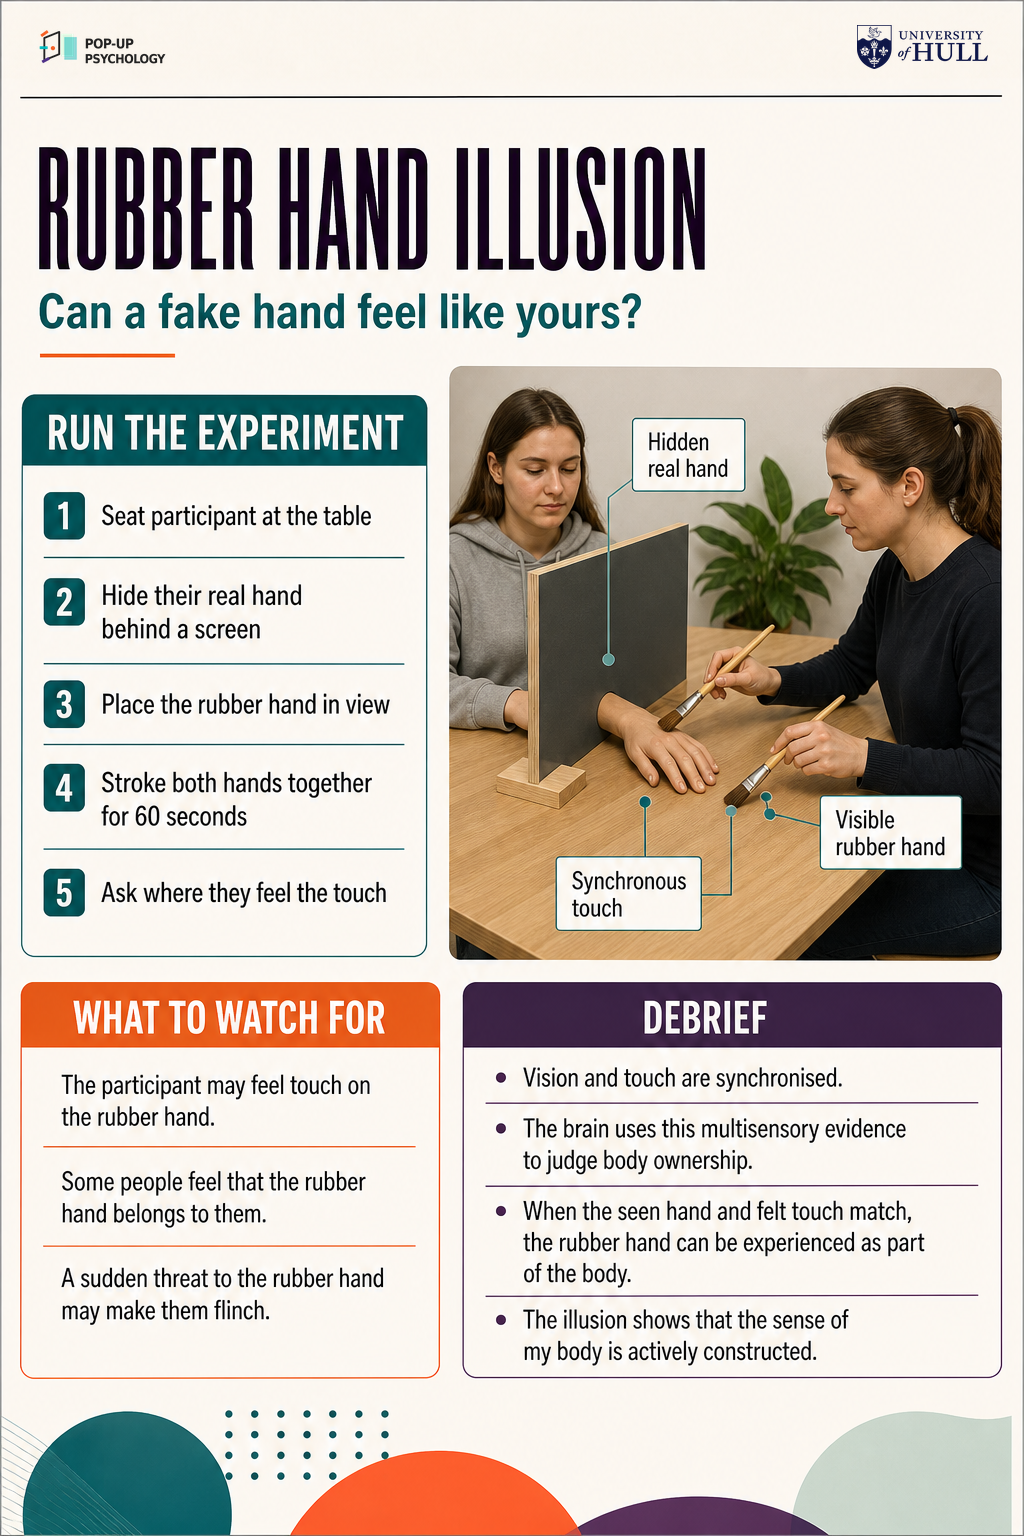
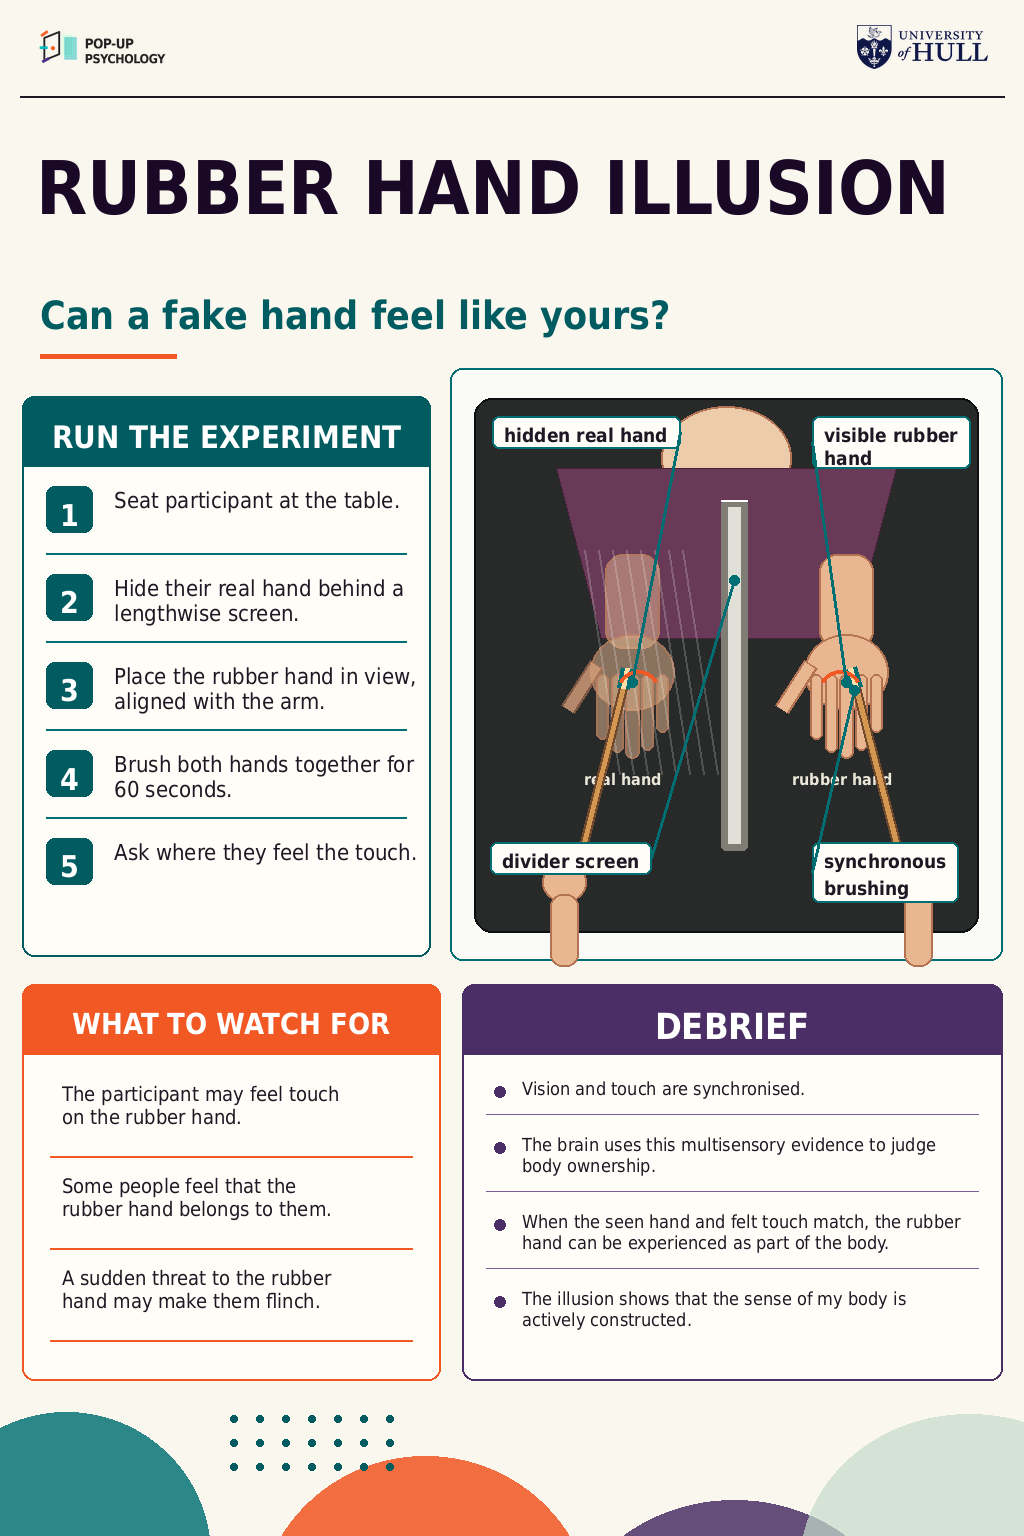
docs: fix rubber hand poster geometry

diff --git a/scripts/render_rubber_hand_poster.py b/scripts/render_rubber_hand_poster.py
@@ -1,0 +1,345 @@
+#!/usr/bin/env python3
+"""Render a deterministic Rubber Hand Illusion poster.
+
+This replaces the unstable image-generation step for the activity where the
+canonical divider geometry matters.
+"""
+
+from __future__ import annotations
+
+import math
+import argparse
+import textwrap
+from pathlib import Path
+
+from PIL import Image, ImageDraw, ImageFont
+
+
+REPO = Path(__file__).resolve().parents[1]
+DEFAULT_OUT = REPO / "images" / "rubber-hand-illusion.png"
+
+W, H = 1024, 1536
+IVORY = (250, 247, 239)
+INK = (31, 24, 36)
+TEAL = (0, 111, 115)
+TEAL_DARK = (0, 92, 96)
+PERSIMMON = (241, 88, 36)
+AUBERGINE = (74, 46, 101)
+MINT = (219, 244, 224)
+TABLE = (39, 42, 41)
+CLOTH = (104, 58, 87)
+SKIN = (232, 183, 145)
+SKIN_DARK = (180, 116, 84)
+SCREEN = (225, 224, 216)
+SCREEN_EDGE = (127, 125, 116)
+
+FONT = "/usr/share/fonts/TTF/DejaVuSansCondensed.ttf"
+BOLD = "/usr/share/fonts/TTF/DejaVuSansCondensed-Bold.ttf"
+
+
+def font(size: int, bold: bool = False) -> ImageFont.FreeTypeFont:
+    return ImageFont.truetype(BOLD if bold else FONT, size)
+
+
+def text_size(draw: ImageDraw.ImageDraw, text: str, fnt: ImageFont.FreeTypeFont) -> tuple[int, int]:
+    box = draw.textbbox((0, 0), text, font=fnt)
+    return box[2] - box[0], box[3] - box[1]
+
+
+def wrap(text: str, chars: int) -> str:
+    return "\n".join(textwrap.wrap(text, width=chars, break_long_words=False))
+
+
+def rounded(draw: ImageDraw.ImageDraw, xy: tuple[int, int, int, int], fill, outline=None, width: int = 2, radius: int = 10) -> None:
+    draw.rounded_rectangle(xy, radius=radius, fill=fill, outline=outline, width=width)
+
+
+def draw_centered(draw: ImageDraw.ImageDraw, xy: tuple[int, int, int, int], text: str, fnt, fill=INK) -> None:
+    x1, y1, x2, y2 = xy
+    tw, th = text_size(draw, text, fnt)
+    draw.text((x1 + (x2 - x1 - tw) / 2, y1 + (y2 - y1 - th) / 2), text, font=fnt, fill=fill)
+
+
+def panel(draw: ImageDraw.ImageDraw, xy, title: str, colour, title_size: int = 37) -> None:
+    x1, y1, x2, y2 = xy
+    rounded(draw, xy, fill=(255, 253, 248), outline=colour, width=2, radius=12)
+    draw.rounded_rectangle((x1, y1, x2, y1 + 70), radius=12, fill=colour)
+    draw.rectangle((x1, y1 + 35, x2, y1 + 70), fill=colour)
+    draw_centered(draw, (x1, y1, x2, y1 + 70), title, font(title_size, True), fill=(255, 255, 255))
+
+
+def draw_label(draw: ImageDraw.ImageDraw, anchor: tuple[int, int], text: str, target: tuple[int, int], side: str = "right") -> None:
+    fnt = font(19, True)
+    wrapped = wrap(text, 16)
+    lines = wrapped.splitlines()
+    tw = max(text_size(draw, line, fnt)[0] for line in lines)
+    th = sum(text_size(draw, line, fnt)[1] + 4 for line in lines) + 12
+    x, y = anchor
+    box = (x, y, x + tw + 24, y + th)
+    rounded(draw, box, fill=(255, 253, 248), outline=TEAL, width=2, radius=7)
+    cy = y + 8
+    for line in lines:
+        draw.text((x + 12, cy), line, font=fnt, fill=INK)
+        cy += text_size(draw, line, fnt)[1] + 7
+    start = (box[0] if side == "left" else box[2], y + th // 2)
+    draw.line((start, target), fill=TEAL, width=3)
+    draw.ellipse((target[0] - 5, target[1] - 5, target[0] + 5, target[1] + 5), fill=TEAL)
+
+
+def draw_hand(draw: ImageDraw.ImageDraw, cx: int, y: int, *, hidden: bool = False) -> None:
+    alpha_fill = SKIN if not hidden else (232, 183, 145, 130)
+    outline = SKIN_DARK if not hidden else (180, 116, 84, 160)
+    # Forearm and palm, vertical top-down orientation.
+    draw.rounded_rectangle((cx - 27, y - 82, cx + 27, y + 12), radius=18, fill=alpha_fill, outline=outline, width=2)
+    draw.ellipse((cx - 42, y - 2, cx + 42, y + 74), fill=alpha_fill, outline=outline, width=2)
+    fingers = [-30, -15, 0, 15, 30]
+    lengths = [65, 78, 84, 76, 58]
+    widths = [13, 13, 14, 13, 12]
+    for dx, length, fw in zip(fingers, lengths, widths):
+        draw.rounded_rectangle(
+            (cx + dx - fw // 2, y + 38, cx + dx + fw // 2, y + 38 + length),
+            radius=fw // 2,
+            fill=alpha_fill,
+            outline=outline,
+            width=2,
+        )
+    # Thumb.
+    draw.line((cx - 36, y + 28, cx - 65, y + 73), fill=outline, width=16)
+    draw.line((cx - 37, y + 29, cx - 65, y + 73), fill=alpha_fill, width=12)
+    if hidden:
+        for off in range(-48, 56, 14):
+            draw.line((cx + off, y - 86, cx + off + 35, y + 138), fill=(255, 255, 255, 50), width=2)
+
+
+def draw_brush(draw: ImageDraw.ImageDraw, start: tuple[int, int], end: tuple[int, int], colour=PERSIMMON) -> None:
+    sx, sy = start
+    ex, ey = end
+    draw.line((sx, sy, ex, ey), fill=(112, 73, 44), width=9)
+    draw.line((sx, sy, ex, ey), fill=(211, 151, 81), width=5)
+    angle = math.atan2(ey - sy, ex - sx)
+    tip_len = 20
+    tx = ex + math.cos(angle) * tip_len
+    ty = ey + math.sin(angle) * tip_len
+    draw.line((ex, ey, tx, ty), fill=colour, width=13)
+    draw.line((ex, ey, tx, ty), fill=(255, 222, 168), width=5)
+
+
+def draw_experiment_hand(draw: ImageDraw.ImageDraw, cx: int, cy: int) -> None:
+    draw.ellipse((cx - 22, cy - 18, cx + 22, cy + 22), fill=SKIN, outline=SKIN_DARK, width=2)
+    draw.rounded_rectangle((cx - 14, cy + 14, cx + 14, cy + 86), radius=12, fill=SKIN, outline=SKIN_DARK, width=2)
+
+
+def draw_diagram(draw: ImageDraw.ImageDraw, xy: tuple[int, int, int, int]) -> None:
+    x1, y1, x2, y2 = xy
+    rounded(draw, xy, fill=(250, 250, 246), outline=TEAL, width=2, radius=12)
+    table = (x1 + 24, y1 + 30, x2 - 24, y2 - 28)
+    rounded(draw, table, fill=TABLE, outline=(12, 15, 15), width=2, radius=18)
+
+    tx1, ty1, tx2, ty2 = table
+    midx = (tx1 + tx2) // 2
+    cloth_y = ty1 + 60
+    draw.ellipse((midx - 65, ty1 + 8, midx + 65, ty1 + 112), fill=(236, 204, 171), outline=SKIN_DARK, width=2)
+    draw.polygon(
+        [(midx - 170, cloth_y + 10), (midx + 170, cloth_y + 10), (midx + 125, cloth_y + 180), (midx - 125, cloth_y + 180)],
+        fill=CLOTH,
+        outline=(72, 34, 59),
+    )
+
+    divider_x = midx + 8
+    divider_top = cloth_y + 42
+    divider_bottom = ty2 - 82
+    draw.rounded_rectangle((divider_x - 13, divider_top, divider_x + 13, divider_bottom), radius=5, fill=SCREEN_EDGE)
+    draw.rectangle((divider_x - 6, divider_top + 7, divider_x + 6, divider_bottom - 7), fill=SCREEN)
+    draw.line((divider_x - 13, divider_top, divider_x + 13, divider_top), fill=(255, 255, 255), width=2)
+
+    hidden_x = divider_x - 102
+    rubber_x = divider_x + 112
+    hand_y = cloth_y + 178
+    draw_hand(draw, hidden_x, hand_y, hidden=True)
+    draw_hand(draw, rubber_x, hand_y, hidden=False)
+    draw.text((rubber_x - 54, hand_y + 134), "rubber hand", font=font(16, True), fill=(235, 232, 218))
+    draw.text((hidden_x - 48, hand_y + 134), "real hand", font=font(16, True), fill=(235, 232, 218))
+
+    # Experimenter hands and synchronous brushing from the near side.
+    draw_experiment_hand(draw, hidden_x - 68, ty2 - 52)
+    draw_experiment_hand(draw, rubber_x + 72, ty2 - 52)
+    draw_brush(draw, (hidden_x - 50, ty2 - 82), (hidden_x - 9, hand_y + 52), colour=TEAL)
+    draw_brush(draw, (rubber_x + 52, ty2 - 82), (rubber_x + 10, hand_y + 52), colour=TEAL)
+    draw.arc((hidden_x - 16, hand_y + 34, hidden_x + 28, hand_y + 78), 210, 330, fill=PERSIMMON, width=4)
+    draw.arc((rubber_x - 28, hand_y + 34, rubber_x + 16, hand_y + 78), 210, 330, fill=PERSIMMON, width=4)
+
+    draw_label(draw, (x1 + 42, y1 + 48), "hidden real hand", (hidden_x, hand_y + 46), side="right")
+    draw_label(draw, (x2 - 190, y1 + 48), "visible rubber hand", (rubber_x, hand_y + 46), side="left")
+    draw_label(draw, (x1 + 40, y2 - 118), "divider screen", (divider_x, divider_top + 80), side="right")
+    draw_label(draw, (x2 - 190, y2 - 118), "synchronous brushing", (rubber_x + 8, hand_y + 54), side="left")
+
+
+def draw_diagram_facing_participant(draw: ImageDraw.ImageDraw, xy: tuple[int, int, int, int]) -> None:
+    x1, y1, x2, y2 = xy
+    rounded(draw, xy, fill=(250, 250, 246), outline=TEAL, width=2, radius=12)
+    table = (x1 + 24, y1 + 70, x2 - 24, y2 - 28)
+    rounded(draw, table, fill=TABLE, outline=(12, 15, 15), width=2, radius=18)
+
+    tx1, ty1, tx2, ty2 = table
+    midx = (tx1 + tx2) // 2
+
+    # Participant facing the viewer across the table.
+    head = (midx - 46, y1 + 20, midx + 46, y1 + 105)
+    draw.ellipse(head, fill=(236, 204, 171), outline=SKIN_DARK, width=2)
+    draw.arc((head[0] + 18, head[1] + 36, head[2] - 18, head[3] - 20), 15, 165, fill=INK, width=2)
+    cloth = [
+        (midx - 210, ty1 + 28),
+        (midx + 210, ty1 + 28),
+        (midx + 168, ty1 + 210),
+        (midx - 168, ty1 + 210),
+    ]
+    draw.polygon(cloth, fill=CLOTH, outline=(72, 34, 59))
+    draw.line((midx - 190, ty1 + 32, midx + 190, ty1 + 32), fill=(133, 78, 111), width=5)
+
+    # Lengthwise divider: from participant toward experimenter, between hands.
+    divider_x = midx + 10
+    top_y = ty1 + 70
+    bottom_y = ty2 - 110
+    board = [
+        (divider_x - 18, top_y),
+        (divider_x + 18, top_y + 10),
+        (divider_x + 18, bottom_y),
+        (divider_x - 18, bottom_y - 10),
+    ]
+    draw.polygon(board, fill=SCREEN_EDGE, outline=(75, 75, 70))
+    draw.polygon(
+        [(divider_x - 10, top_y + 8), (divider_x + 10, top_y + 14), (divider_x + 10, bottom_y - 8), (divider_x - 10, bottom_y - 14)],
+        fill=SCREEN,
+    )
+    draw.rounded_rectangle((divider_x - 42, bottom_y - 8, divider_x + 42, bottom_y + 18), radius=5, fill=(161, 130, 82), outline=(92, 65, 36), width=2)
+
+    # Hands sit beside the divider, with wrists disappearing under cloth.
+    hidden_x = divider_x - 118
+    rubber_x = divider_x + 116
+    hand_y = ty1 + 240
+    draw_hand(draw, hidden_x, hand_y, hidden=True)
+    draw.rectangle((hidden_x - 58, ty1 + 74, hidden_x + 58, ty1 + 156), fill=CLOTH)
+    draw.text((hidden_x - 50, hand_y + 134), "real hand", font=font(16, True), fill=(235, 232, 218))
+
+    draw_hand(draw, rubber_x, hand_y, hidden=False)
+    draw.rectangle((rubber_x - 58, ty1 + 74, rubber_x + 58, ty1 + 156), fill=CLOTH)
+    draw.text((rubber_x - 56, hand_y + 134), "rubber hand", font=font(16, True), fill=(235, 232, 218))
+
+    # Experimenter hands enter from foreground and brush both hands at matched points.
+    draw_experiment_hand(draw, hidden_x - 62, ty2 - 58)
+    draw_experiment_hand(draw, rubber_x + 66, ty2 - 58)
+    draw_brush(draw, (hidden_x - 44, ty2 - 90), (hidden_x - 4, hand_y + 55), colour=TEAL)
+    draw_brush(draw, (rubber_x + 46, ty2 - 90), (rubber_x + 4, hand_y + 55), colour=TEAL)
+    draw.arc((hidden_x - 16, hand_y + 34, hidden_x + 28, hand_y + 78), 210, 330, fill=PERSIMMON, width=4)
+    draw.arc((rubber_x - 28, hand_y + 34, rubber_x + 16, hand_y + 78), 210, 330, fill=PERSIMMON, width=4)
+
+    draw_label(draw, (x1 + 40, y1 + 48), "hidden real hand", (hidden_x, hand_y + 46), side="right")
+    draw_label(draw, (x2 - 190, y1 + 48), "visible rubber hand", (rubber_x, hand_y + 46), side="left")
+    draw_label(draw, (x1 + 40, y2 - 118), "lengthwise divider", (divider_x, top_y + 90), side="right")
+    draw_label(draw, (x2 - 190, y2 - 118), "synchronous brushing", (rubber_x + 8, hand_y + 54), side="left")
+
+
+def draw_steps(draw: ImageDraw.ImageDraw, xy) -> None:
+    panel(draw, xy, "RUN THE EXPERIMENT", TEAL_DARK, title_size=31)
+    x1, y1, x2, _ = xy
+    steps = [
+        "Seat participant at the table.",
+        "Hide their real hand behind a lengthwise screen.",
+        "Place the rubber hand in view, aligned with the arm.",
+        "Brush both hands together for 60 seconds.",
+        "Ask where they feel the touch.",
+    ]
+    y = y1 + 95
+    for idx, line in enumerate(steps, 1):
+        rounded(draw, (x1 + 24, y - 5, x1 + 70, y + 41), fill=TEAL_DARK, radius=8)
+        draw_centered(draw, (x1 + 24, y - 5, x1 + 70, y + 41), str(idx), font(30, True), fill=(255, 255, 255))
+        draw.text((x1 + 92, y - 4), wrap(line, 30), font=font(22), fill=INK)
+        if idx < len(steps):
+            draw.line((x1 + 24, y + 62, x2 - 24, y + 62), fill=TEAL, width=2)
+        y += 88
+
+
+def draw_observation(draw: ImageDraw.ImageDraw, xy) -> None:
+    panel(draw, xy, "WHAT TO WATCH FOR", PERSIMMON, title_size=29)
+    x1, y1, x2, _ = xy
+    lines = [
+        "The participant may feel touch on the rubber hand.",
+        "Some people feel that the rubber hand belongs to them.",
+        "A sudden threat to the rubber hand may make them flinch.",
+    ]
+    y = y1 + 98
+    for line in lines:
+        draw.text((x1 + 40, y), wrap(line, 31), font=font(20), fill=INK)
+        y += 92
+        draw.line((x1 + 28, y - 18, x2 - 28, y - 18), fill=PERSIMMON, width=2)
+
+
+def draw_debrief(draw: ImageDraw.ImageDraw, xy) -> None:
+    panel(draw, xy, "DEBRIEF", AUBERGINE, title_size=36)
+    x1, y1, x2, _ = xy
+    lines = [
+        "Vision and touch are synchronised.",
+        "The brain uses this multisensory evidence to judge body ownership.",
+        "When the seen hand and felt touch match, the rubber hand can be experienced as part of the body.",
+        "The illusion shows that the sense of my body is actively constructed.",
+    ]
+    y = y1 + 94
+    body = font(18)
+    for line in lines:
+        draw.ellipse((x1 + 32, y + 8, x1 + 43, y + 19), fill=AUBERGINE)
+        wrapped = wrap(line, 52)
+        draw.text((x1 + 60, y), wrapped, font=body, fill=INK)
+        _, h = text_size(draw, wrapped, body)
+        y += h + 38
+        if y < xy[3] - 30:
+            draw.line((x1 + 24, y - 20, x2 - 24, y - 20), fill=(124, 93, 147), width=1)
+
+
+def render(out: Path, *, variant: str) -> None:
+    img = Image.new("RGB", (W, H), IVORY)
+    draw = ImageDraw.Draw(img, "RGBA")
+
+    # Blank header band for the fixed logo overlay workflow.
+    draw.line((20, 96, W - 20, 96), fill=INK, width=2)
+
+    draw.text((36, 145), "RUBBER HAND ILLUSION", font=font(74, True), fill=(25, 8, 38))
+    draw.text((40, 292), "Can a fake hand feel like yours?", font=font(39, True), fill=TEAL_DARK)
+    draw.line((40, 356, 176, 356), fill=PERSIMMON, width=5)
+
+    draw_steps(draw, (22, 396, 430, 956))
+    if variant == "facing":
+        draw_diagram_facing_participant(draw, (450, 368, 1002, 960))
+    else:
+        draw_diagram(draw, (450, 368, 1002, 960))
+    draw_observation(draw, (22, 984, 440, 1380))
+    draw_debrief(draw, (462, 984, 1002, 1380))
+
+    # Quiet footer motif, kept below content.
+    draw.ellipse((-78, 1412, 210, 1698), fill=(0, 111, 115, 210))
+    draw.ellipse((258, 1456, 592, 1780), fill=(241, 88, 36, 220))
+    draw.ellipse((558, 1500, 910, 1818), fill=(74, 46, 101, 215))
+    draw.ellipse((800, 1414, 1138, 1714), fill=(196, 219, 203, 180))
+    for x in range(230, 390, 26):
+        for y in range(1415, 1480, 24):
+            draw.ellipse((x, y, x + 7, y + 7), fill=TEAL_DARK)
+
+    out.parent.mkdir(parents=True, exist_ok=True)
+    img.save(out, quality=95)
+    print(out)
+
+
+def main() -> None:
+    parser = argparse.ArgumentParser()
+    parser.add_argument("--variant", choices=["topdown", "facing", "both"], default="topdown")
+    parser.add_argument("--out", type=Path, default=DEFAULT_OUT)
+    args = parser.parse_args()
+
+    if args.variant == "both":
+        render(REPO / "images" / "rubber-hand-illusion-topdown.png", variant="topdown")
+        render(REPO / "images" / "rubber-hand-illusion-facing.png", variant="facing")
+    else:
+        render(args.out, variant=args.variant)
+
+
+if __name__ == "__main__":
+    main()

diff --git a/image-prompts.md b/image-prompts.md
@@ -525,7 +525,7 @@ Top section:
 Activity title and main question should be visually strong but should not dominate the whole poster.
 
 Main visual:
-Show a tabletop setup with a participant seated, their real hand hidden behind a screen, a visible rubber hand in a plausible body position, and a student experimenter using two brushes to stroke the hidden real hand and visible rubber hand at the same time. The spatial setup should be immediately understandable.
+Use a clean overhead instructional view of the canonical rubber hand illusion setup. The participant sits at the far side of the table with their shoulders and forearms covered by a cloth. A vertical opaque divider screen runs lengthwise from the participant toward the experimenter, parallel with the participant's arm. The divider separates two side-by-side compartments and never cuts across a hand or forearm. On one side of the divider, the participant's real hand lies palm-down behind the screen, hidden from the participant's view. On the other side, a separate realistic rubber hand lies palm-down, visible to the participant, parallel to the hidden real hand, anatomically aligned with the participant's covered arm, with its wrist disappearing under the cloth. Two experimenter hands enter from the near side of the table, each holding a small brush. The brushes touch the same location on the hidden real hand and visible rubber hand at the same time. Use simple labels or leader lines only if needed to clarify Hidden real hand, Visible rubber hand, Divider screen, and Synchronous brushing.
 
 Primary section:
 Large RUN THE EXPERIMENT panel with the exact procedural steps. This is the most important text block on the poster.
@@ -543,9 +543,13 @@ No promotional footer strip.
 No cartoon brain icon.
 No decorative icons in content blocks.
 No duplicate mini panels.
-No explanatory diagram.
 No brush-stroke banners.
 No worksheet-style heavy boxes.
+No divider cutting through the visible rubber hand.
+No divider crossing over the wrist, palm, fingers, or forearm.
+No holes or cut-outs in the divider screen.
+No rubber hand emerging from the screen.
+No freestanding severed hand in an implausible position.
 No text, marks, icons, boxes, or placeholder elements in the empty header band.
 ```
 
